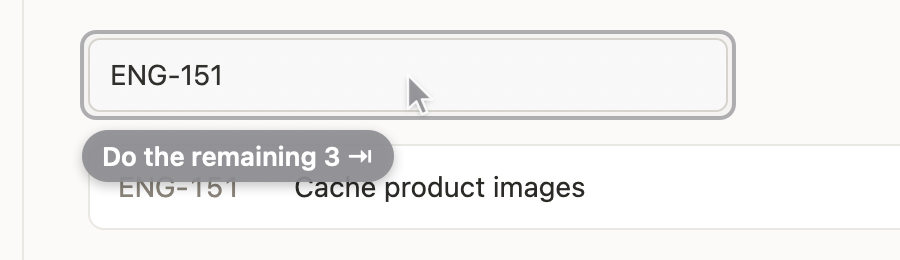
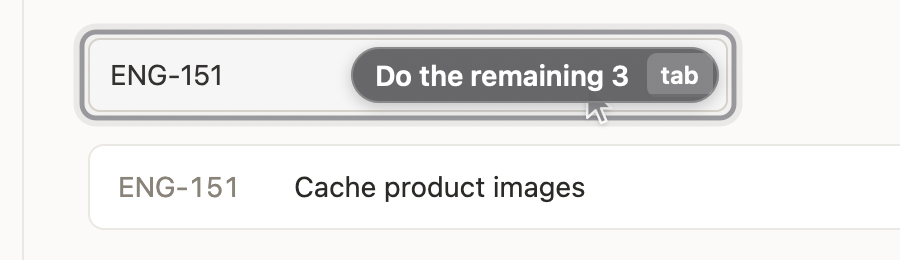
Use Ghost.place inside for wide fields; PR description from split GitHub commit titles; instant scroll; handle A's notes

Changed region(s): [[0.0933, 0.0923, 0.8089, 0.7385], [0.8089, 0.4, 0.84, 0.4308]]

diff --git a/brain/src/candidates.ts b/brain/src/candidates.ts
@@ -57,11 +57,23 @@ function copyableValues(others: ScreenState[], active: ScreenState): string[] {
 /** GitHub "Open a pull request": a description from the commit titles on the page. */
 export function prDescription(active: ScreenState): string | null {
     if (!active.url || !/github\.com\/.+\/(compare|pull\/new)\//.test(active.url)) return null;
-    // Commit titles: links inside a repeated commit list. Path heuristics until C's real fixture lands.
-    const commits = active.elements
-        .filter((e) => e.role === "link" && e.list && /commit/i.test(`${e.path ?? ""} ${e.list.key}`) && !/^[0-9a-f]{7,40}$/.test(e.label))
-        .map((e) => e.label.trim())
-        .filter((t, i, a) => t && a.indexOf(t) === i);
+    // Commit list items: links in a repeated list whose path or key mentions "commit". GitHub splits a title that
+    // references a PR into several links ("Fix … (", "#22424", ")") inside the message <p>; author and hash links are
+    // separate. So: per item, join the links in its message paragraph; else take the first non-hash, non-empty link.
+    const items = new Map<number, El[]>();
+    for (const e of active.elements) {
+        if (e.role !== "link" || !e.list || !/commit/i.test(`${e.path ?? ""} ${e.list.key}`)) continue;
+        items.set(e.list.index, [...(items.get(e.list.index) ?? []), e]);
+    }
+    const isHash = (t: string) => /^[0-9a-f]{7,40}$/.test(t);
+    const commits: string[] = [];
+    for (const [, links] of [...items].sort((x, y) => x[0] - y[0])) {
+        const msg = links.filter((e) => /(^|> )p > a/.test(e.list?.field ?? "") || /(^|> )p > a/.test(e.path ?? ""));
+        const title = msg.length
+            ? msg.map((e) => e.label.trim()).join(" ").replace(/\(\s+/g, "(").replace(/\s+\)/g, ")").trim()
+            : links.map((e) => e.label.trim()).find((t) => t && !isHash(t));
+        if (title && !commits.includes(title)) commits.push(title);
+    }
     if (commits.length === 0) return null;
     const summary = commits.length === 1 ? commits[0] : `${commits[0]}, and ${commits.length - 1} more change${commits.length > 2 ? "s" : ""}.`;
     return `${summary}\n\n## Changes\n${commits.map((c) => `- ${c}`).join("\n")}`;

diff --git a/brain/src/brain.ts b/brain/src/brain.ts
@@ -276,7 +276,18 @@ export class Brain {
         if (a.op === "type" && empty && (el.role === "textfield" || el.role === "textarea")) {
             return { id, kind: "text", label: "⇥", rect: el.rect, ghostText: a.value };
         }
-        return { id, kind: "action", label, rect: el.rect, cursor: center };
+        const ghost: Ghost = { id, kind: "action", label, rect: el.rect, cursor: center };
+        if (this.pillWouldCover(el, active)) ghost.place = "inside"; // ghost-spec amendment: dock in wide fields
+        return ghost;
+    }
+
+    /** A pill below a wide field would sit on whatever comes right under it (flow 3: the first list row). */
+    private pillWouldCover(el: El, active: ScreenState | undefined): boolean {
+        if (!active || !["textfield", "textarea", "select"].includes(el.role) || el.rect.w < 160) return false;
+        const top = el.rect.y + el.rect.h, bottom = top + 44; // pill gap + height, with margin
+        return active.elements.some(
+            (o) => o.id !== el.id && o.rect.y < bottom && o.rect.y + o.rect.h > top && o.rect.x < el.rect.x + 260 && o.rect.x + o.rect.w > el.rect.x,
+        );
     }
 
     /** The element a ghost highlights: the target, or for a sequence, the first step we can find on screen. */

diff --git a/brain/test/candidates.test.ts b/brain/test/candidates.test.ts
@@ -56,3 +56,13 @@ test("A's real Terminal capture (protocol/fixtures/native_state_terminal_push.js
     assert.equal(cs[0].action.label, "Open pull request");
     assert.match(cs[0].action.value!, /\/pull\/new\/fix\/checkout-rounding$/);
 });
+
+test("PR description on A's real GitHub compare capture: titles rejoined, no authors or hashes", async () => {
+    const { readFileSync } = await import("node:fs");
+    const s = JSON.parse(readFileSync(new URL("../../protocol/fixtures/reference/real_github_compare_commits_uv.json", import.meta.url), "utf8"));
+    const d = prDescription({ ...s, url: "https://github.com/astral-sh/uv/compare/0.13.0...0.13.1?expand=1" })!;
+    const lines = d.split("\n").filter((l) => l.startsWith("- "));
+    assert.equal(lines[0], "- Document native Python preference on Windows ARM64 (#22424)");
+    assert.equal(lines.length, 6);
+    assert.ok(!/zanieb|\[bot\]|0e23f06/.test(d), d);
+});

diff --git a/brain/test/brain.test.ts b/brain/test/brain.test.ts
@@ -176,3 +176,13 @@ test("a cancelled payment (page navigated away) clears quietly", () => {
     void brain.predictNow();
     assert.equal(ghosts().length, n, "the blocked ghost doesn't come back");
 });
+
+test("pill docks inside a wide field when something sits right below it (tracker search box)", async () => {
+    const { brain, ghosts } = harness(() => ({ op: "click", app: CHROME, url: TRACKER_URL, targetId: "s", targetPath: SEARCH.path, label: "Click Search", confidence: 0.9, source: "model" }));
+    brain.fromShell({ type: "frontmost", app: CHROME, window: "Tracker" });
+    const st = trackerState(Date.now());
+    st.elements = st.elements.map((e) => (e.id === "s" ? { ...e, rect: { x: 100, y: 50, w: 320, h: 36 } } : e.id === "t0" ? { ...e, rect: { x: 100, y: 96, w: 600, h: 40 } } : e));
+    brain.fromWeb(st);
+    await brain.predictNow();
+    assert.equal(ghosts().at(-1).place, "inside");
+});

diff --git a/web/src/main.ts b/web/src/main.ts
@@ -187,7 +187,7 @@ async function exec(a: Action): Promise<void> {
         let el = ${sel(a)} ? document.querySelector(${sel(a)}) : null;
         if (!el && ${JSON.stringify(a.targetId ?? "")}) el = document.querySelector('[data-tab-id="${a.targetId ?? ""}"]');
         if (!el) return null;
-        el.scrollIntoView({ block: "nearest", inline: "nearest" });
+        el.scrollIntoView({ block: "nearest", inline: "nearest", behavior: "instant" }); // smooth never moves on a hidden page
         const r = el.getBoundingClientRect();
         const top = screenY + (outerHeight - innerHeight);
         return { x: r.left + r.width / 2, y: r.top + r.height / 2, tag: el.tagName, type: (el.type || ""),

diff --git a/STATUS.md b/STATUS.md
@@ -26,7 +26,8 @@ The C human was asleep, so **Agent B built C's part (`web/`) overnight** and ran
 - The demo repo now exists (`alaramartin/tab-demo`, local clone `~/Projects/tab-demo`), so `native_state_terminal_push.json` can be recaptured from a real push (your note said to after setup step 6). B's test accepts the current one.
 - Cursor rule (ghost-spec "agree on one"): **B agrees the shell positions the tip from the rect.** B keeps sending the element centre in `cursor`; ignore it.
 - Signing: on this Mac the build script created its own identity (leaf `65eac85f…`), not your `4f25…df22`. Fine per machine, but the Accessibility grant belongs to whichever Mac runs the demo.
-- The pill can sit on top of the first list row (flow 3 proof). Real-key Tab/Esc/hold test is pending the VS Code grant.
+- ~~The pill can sit on top of the first list row~~ **Done (02:3x):** the hub sends `place: "inside"` when a pill below a wide field (≥ 160 pt) would overlap the next element; verified live with your new build (flow 3 proof). Real-key Tab/Esc/hold test is pending the VS Code grant.
+- Your notes for B and C, handled: (1) compare page hydration: C's MutationObserver re-emits; unverified until GitHub login. (2) split commit titles: `prDescription` now joins the links in each commit's message `<p>` and drops author/hash links; tested on your `real_github_compare_commits_uv.json` (first line `Document native Python preference on Windows ARM64 (#22424)`). The demo repo's commits have no `#NN` anyway. (3) release PR column: none of #12–#17 exist as PRs, so every row is plain text with the same field; the pattern test on the real capture passes. (4) C now scrolls with `behavior: "instant"`.
 - **B edited `shell/` at the human's request (~02:25 PT)**, because the HUD covered their work: `HUD.swift` (drag anywhere to move; position and hidden state persist in UserDefaults; `place()` keeps a dragged position instead of snapping back every 2 s; `screenRect` is empty while hidden) and `main.swift` (a ⇥ menu bar item: Show HUD, Reset HUD Position, High Contrast, Quit TabShell). Additive only, nothing in the drawing or protocol changed. A: keep or restyle as you like; if you're mid-edit in these files, rebase on it.
 
 ## A — Shell
@@ -124,7 +125,7 @@ _**Overnight (from ~01:55 PT) Agent B covered C's tasks while the C human was as
   - Verified: tickets → hub shows `Pay $0.30 · tickets.localhost ⇥` anchored on Buy; resale → `Blocked · page says $0.30, payment asks $0.51`.
   - **Flow 1 live, end to end (B, ~02:10 PT)** with Jev + A's overlay + C in the debug Chrome: Qty 2 → `Click Checkout ⇥` (Jev 0.72) → accept → `Click Buy tickets ⇥` (0.74) → accept → 402 held → `Pay $0.30 · tickets.localhost ⇥` → accept → pay. Ghosts land exactly on the real buttons: ![](design/proof/flow1-click-buy-ghost.png) ![](design/proof/flow1-pay-ghost.png) Accepts were sent as A's `accept` message: real Tab presses from the agent's terminal need Accessibility for VS Code (see Needs human).
   - **The payment itself fails: the payer has 0 USDC** (`pay-test` → `invalid_exact_evm_insufficient_balance`; the ghost now says "Blocked · not enough USDC in the wallet").
-  - **Flow 3 live, end to end (B, ~02:14 PT)** on the real GitHub release page + tracker: ticket 1 done by hand → `Repeat for ENG-150 · #13` (pattern 1.1 ms) → accept → `Repeat for ENG-151 · #14` (0.97) → accept → `Do the remaining 3` → accept → all six tickets Done with #12–#17, 0 model calls during repeats. ![](design/proof/flow3-do-remaining-ghost.png) (A: the pill sits on top of the first list row here.)
+  - **Flow 3 live, end to end (B, ~02:14 PT)** on the real GitHub release page + tracker: ticket 1 done by hand → `Repeat for ENG-150 · #13` (pattern 1.1 ms) → accept → `Repeat for ENG-151 · #14` (0.97) → accept → `Do the remaining 3` → accept → all six tickets Done with #12–#17, 0 model calls during repeats. ![](design/proof/flow3-do-remaining-ghost.png) (Pill docked inside the search box via `Ghost.place: "inside"`; it used to cover the first list row.)
   - Fixed on the way: semantic lists (`ul/ol/tbody`) stay lists when filtered to one item; C waits until the page has actually received a click before reporting it done, and runs execs one at a time; when several tabs match an action's URL, C picks the focused, then visible one (background tabs get throttled input).
   - **Flow 4 live (B, ~02:17 PT)**, all Jev (88–163 ms each), inbox in a background tab: `Type 4471-209` 0.99 → `Select Oak St` 0.95 → `Click 5:30 pm` 0.74 → `Check "Text me when ready"` 0.64 → `Click Request refill` 0.78 → `Pay $0.05 · pharmacy.localhost` (payment fails: no USDC). The checkbox step is the closest to the 0.6 bar.
   - **Flow 2, first half live (B, ~02:18 PT)**: real `git push -u origin fix/checkout-rounding` in Terminal.app → A's Terminal reader → `Open pull request ⇥` (Jev 0.72, 142 ms) at the bottom of the Terminal window → accept → A `switch_app` Chrome → C navigates to `…/pull/new/fix/checkout-rounding` (the URL is read whole even though Terminal wraps it). ![](design/proof/flow2-open-pr-terminal-ghost.png) GitHub then redirects to login: the debug Chrome isn't logged in, so the description and Create steps are untested.
